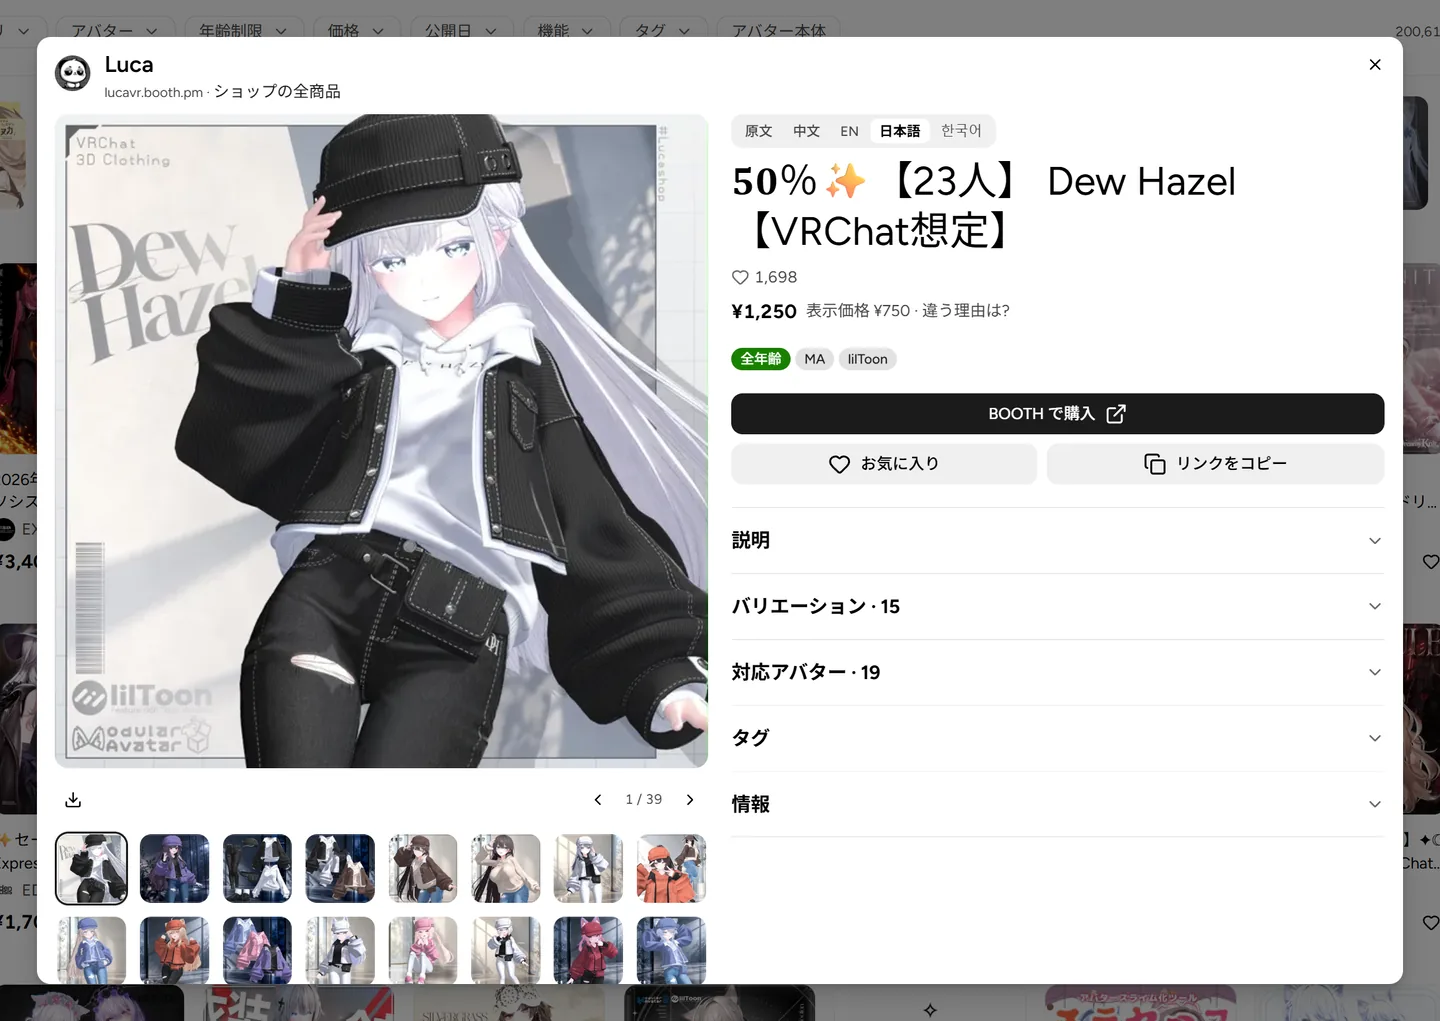
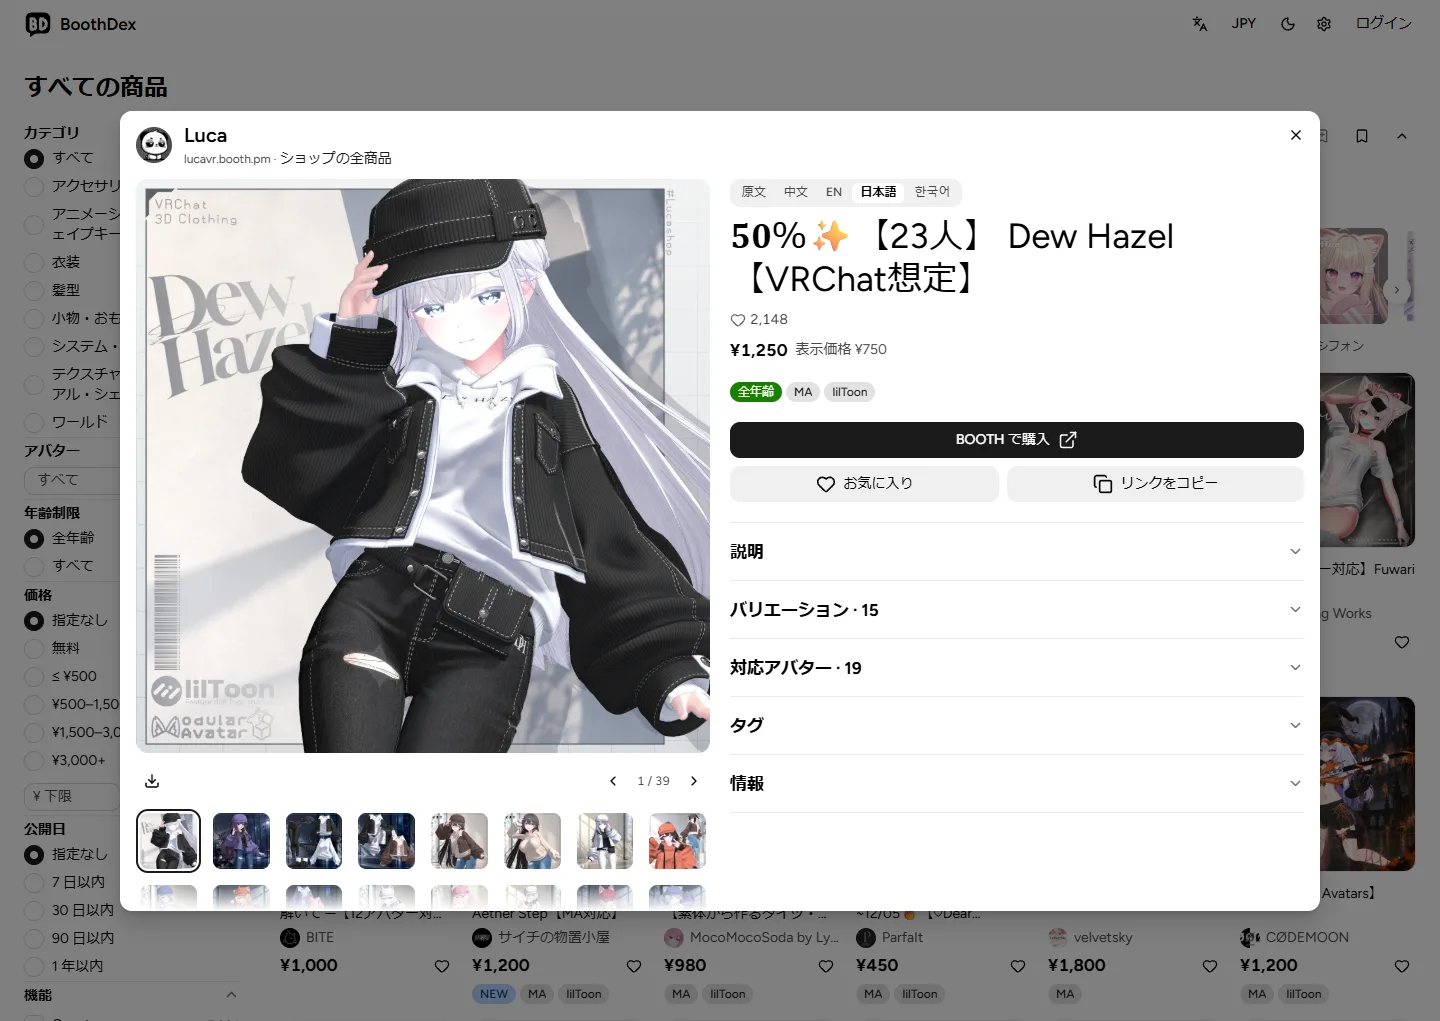
docs: retake the README screenshots from the live site
The home, search, item and phone shots predated the Astryx upgrade,
the filter sidebar default, the resizable rail and the window-scaled
font. They are now taken from boothdex.dev, signed out, at the same
sizes and subjects as before (the hair category, the query "manuka",
Luca's Dew Hazel); the home shot's alt text names the sidebar.

diff --git a/README.ja.md b/README.ja.md
@@ -16,7 +16,7 @@
 
 BoothDex は、[BOOTH](https://booth.pm) で販売されている VRChat 向け商品をインデックス化し、対応アバター、カテゴリ、タグ、機能、価格などの条件で高速に絞り込める検索エンジンです。2026-11-01 に閉鎖された VRCatalogue の後継を目指して開発が始まり、互換性のある検索構文を備えています。本プロジェクトは独立したオープンソースプロジェクトであり、pixiv、BOOTH、および VRCatalogue とは一切関係ありません。商品データおよび画像の権利は各制作者に帰属し、すべての商品は BOOTH の販売ページへ直接リンクしています。
 
-![ホーム画面（カテゴリ：髪型）: フィルター行、アバター本体のカルーセル、商品グリッド](docs/screenshots/ja/home.webp)
+![ホーム画面（カテゴリ：髪型）: 絞り込みのサイドバー、アバター本体のカルーセル、商品グリッド](docs/screenshots/ja/home.webp)
 
 ## はじめに
 

diff --git a/README.zh-CN.md b/README.zh-CN.md
@@ -18,7 +18,7 @@ BoothDex 收录 [BOOTH](https://booth.pm) 上出售的 VRChat 商品，支持按
 项目起初作为 VRCatalogue（已于 2026-11-01 关闭）的后继方案开发，保留了兼容的搜索语法。本项目为独立开源项目，与
 pixiv、BOOTH 及 VRCatalogue 均无关联；商品数据与图片归原作者所有，每件商品均直接链接回其 BOOTH 页面。
 
-![首页（分类：头发）：筛选栏、模型本体轮播与商品网格](docs/screenshots/zh-CN/home.webp)
+![首页（分类：头发）：左侧筛选栏、模型本体轮播与商品网格](docs/screenshots/zh-CN/home.webp)
 
 ## 快速开始
 

diff --git a/README.md b/README.md
@@ -19,7 +19,7 @@ they fit, category, tags, features, price and more. It started as a successor to
 2026-11-01) and keeps its search syntax. It is an independent project, not affiliated with pixiv, BOOTH or
 VRCatalogue. Item data and images belong to their creators; every item links back to its BOOTH page.
 
-![The home page filtered to the hair category: the filter row above a carousel of avatar bodies and the item grid](docs/screenshots/en/home.webp)
+![The home page filtered to the hair category: the filter sidebar beside a carousel of avatar bodies and the item grid](docs/screenshots/en/home.webp)
 
 ## Getting started
 
